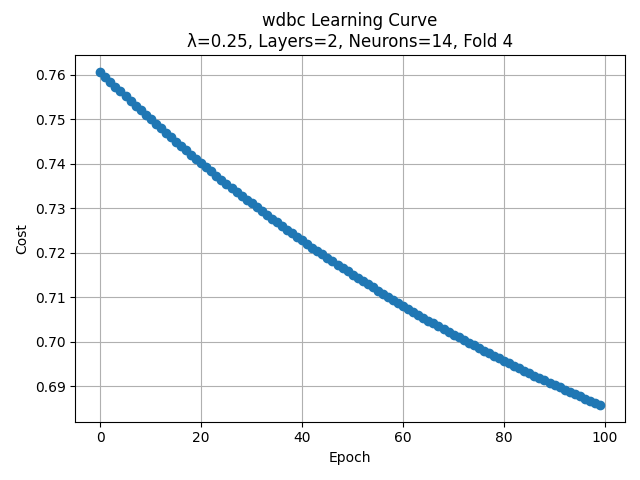
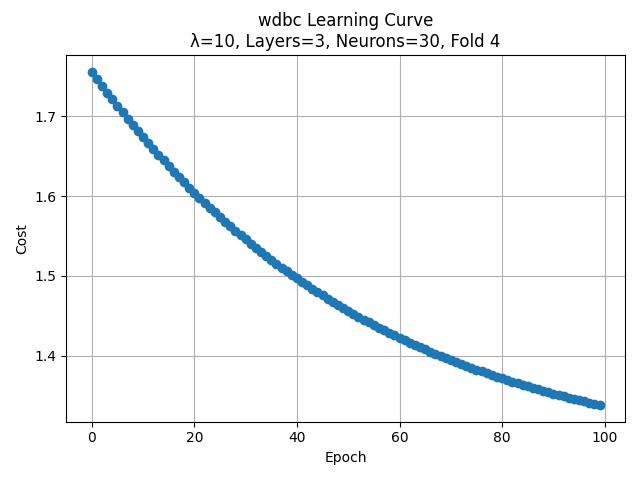
accuracy, f1 is different but the number is too low

diff --git a/nn.py b/nn.py
@@ -3,7 +3,6 @@ import numpy as np
 import pandas as pd
 import matplotlib.pyplot as plt
 from sklearn.preprocessing import OneHotEncoder
-from sklearn.metrics import accuracy_score, f1_score
 from propagation import backpropagation, forward_propagation, cost_function
 
 # === Dataset Setting ===
@@ -17,8 +16,6 @@ class NeuralNetwork:
         self.lam = lam
         self.weights = self.initialize_weights()
         self.cost_history = []
-        self.accuracy = []
-        self.f1 = []
 
     def initialize_weights(self):
         weights = []
@@ -79,15 +76,37 @@ def load_dataset():
 def stratified_k_fold_split(X, y, k=5):
     df = pd.DataFrame(X)
     df['label'] = y.ravel()
+
     class_0 = df[df['label'] == 0].sample(frac=1).reset_index(drop=True)
     class_1 = df[df['label'] == 1].sample(frac=1).reset_index(drop=True)
+
     folds = []
     for i in range(k):
         c0 = class_0.iloc[int(len(class_0)*i/k):int(len(class_0)*(i+1)/k)]
         c1 = class_1.iloc[int(len(class_1)*i/k):int(len(class_1)*(i+1)/k)]
-        fold = pd.concat([c0, c1]).sample(frac=1).reset_index(drop=True)
-        folds.append(fold)
+        test_df = pd.concat([c0, c1]).sample(frac=1).reset_index(drop=True)
+
+        remaining_c0 = pd.concat([class_0.iloc[:int(len(class_0)*i/k)], class_0.iloc[int(len(class_0)*(i+1)/k):]])
+        remaining_c1 = pd.concat([class_1.iloc[:int(len(class_1)*i/k)], class_1.iloc[int(len(class_1)*(i+1)/k):]])
+        train_df = pd.concat([remaining_c0, remaining_c1]).sample(frac=1).reset_index(drop=True)
+
+        folds.append((train_df, test_df))
     return folds
+def my_accuracy(y_true, y_pred):
+    correct = np.sum(y_true == y_pred)
+    return correct / len(y_true)
+
+def my_f1_score(y_true, y_pred):
+    tp = np.sum((y_true == 1) & (y_pred == 1))
+    fp = np.sum((y_true == 0) & (y_pred == 1))
+    fn = np.sum((y_true == 1) & (y_pred == 0))
+
+    if tp + fp == 0 or tp + fn == 0:
+        return 0.0
+
+    precision = tp / (tp + fp)
+    recall = tp / (tp + fn)
+    return 2 * (precision * recall) / (precision + recall)
 
 # === Plot Learning Curve ===
 def plot_learning_curve(model, dataset_name, hidden_layer, lam, fold_index=None):
@@ -114,15 +133,29 @@ def save_metrics_table(results_by_dataset):
     for dataset_name, dataset_results in results_by_dataset.items():
         fig, ax = plt.subplots()
         ax.axis('off')
-        col_labels = ["Layer & Neuron", "Lambda", "Accuracy", "F1 Score"]
+        col_labels = ["Layer & Neuron", "Lambda", "Avg Accuracy", "Avg F1 Score"]
         cell_data = []
+
+        # 새로운 구조: key = (hidden, lam)
+        grouped = {}
         for key, val in dataset_results.items():
+            h = tuple(val['hidden'])  # list는 dict 키로 못 씀
+            l = val['lam']
+            grouped.setdefault((h, l), []).append((val['acc'], val['f1']))
+
+        # 평균 계산 후 테이블 행 추가
+        for (h, l), metrics in grouped.items():
+            accs = [m[0] for m in metrics]
+            f1s = [m[1] for m in metrics]
+            avg_acc = np.mean(accs)
+            avg_f1 = np.mean(f1s)
             cell_data.append([
-                str(val['hidden']),
-                f"{val['lam']:.2f}",
-                f"{val['acc']:.4f}",
-                f"{val['f1']:.4f}"
+                str(h),
+                f"{l:.2f}",
+                f"{avg_acc:.4f}",
+                f"{avg_f1:.4f}"
             ])
+
         table = ax.table(cellText=cell_data, colLabels=col_labels, loc='center', cellLoc='center')
         table.auto_set_font_size(False)
         table.set_fontsize(12)
@@ -134,47 +167,47 @@ def save_metrics_table(results_by_dataset):
         print(f"📋 Saved metrics table: {filename}")
         plt.close()
 
+
 # === Main Function ===
 def main():
     X, y = load_dataset()
     folds = stratified_k_fold_split(X, y, k=5)
-    dataset_name = DATASET_NAME
+
+    lam = [0.25, 10]
+    hidden_layers = [[8, 6], [10,10,10]]
     alpha = 0.01
-    lam = 0.25
-    hidden_layers = [8, 6]  # 예시
+    epochs = 100
+    dataset_name = DATASET_NAME
 
     results = {}
 
-    for fold_index in range(5):
-        test_fold = folds[fold_index]
-        train_folds = [f for i, f in enumerate(folds) if i != fold_index]
-        train_df = pd.concat(train_folds)
+    for h_idx, hidden in enumerate(hidden_layers):
+        for l_idx, l in enumerate(lam):
+            for i, (train_df, test_df) in enumerate(folds):
+                X_train = train_df.drop(columns=['label']).values
+                y_train = train_df['label'].values.reshape(-1, 1)
+                X_test = test_df.drop(columns=['label']).values
+                y_test = test_df['label'].values.astype(int).ravel()
 
-        X_train = train_df.drop(columns=['label']).values
-        y_train = train_df['label'].values.reshape(-1, 1)
-        X_test = test_fold.drop(columns=['label']).values
-        y_test = test_fold['label'].values.astype(int).ravel()  # ✅ 수정
+                model = NeuralNetwork(layer_sizes=[X_train.shape[1], *hidden, 1], alpha=alpha, lam=l)
+                model.fit(X_train, y_train, epochs=epochs, fold_index=i)
+                preds = model.predict(X_test)
+                preds_binary = (preds >= 0.5).astype(int).ravel()
 
-        model = NeuralNetwork(layer_sizes=[X_train.shape[1], *hidden_layers, 1], alpha=alpha, lam=lam)
-        model.fit(X_train, y_train, epochs=100, fold_index=fold_index)
-        preds = model.predict(X_test)
-        preds_binary = (preds >= 0.5).astype(int).ravel()  # ✅ 수정
+                acc = my_accuracy(y_test, preds_binary)
+                f1 = my_f1_score(y_test, preds_binary)
 
-        acc = accuracy_score(y_test, preds_binary)
-        f1 = f1_score(y_test, preds_binary)
-        print(f"✅ Fold {fold_index+1} - Accuracy: {acc:.4f}, F1: {f1:.4f}")
+                results[f"Fold {i+1}-H{h_idx+1}-L{l_idx+1}"] = {
+                    "hidden": hidden,
+                    "lam": l,
+                    "acc": acc,
+                    "f1": f1
+                }
 
-        results[f"Fold {fold_index+1}"] = {
-            "hidden": hidden_layers,
-            "lam": lam,
-            "acc": acc,
-            "f1": f1
-        }
+                plot_learning_curve(model, dataset_name, hidden, l, fold_index=i)
 
-        plot_learning_curve(model, dataset_name, hidden_layers, lam, fold_index)
 
     save_metrics_table({dataset_name: results})
 
-# === Entry Point ===
 if __name__ == "__main__":
     main()
